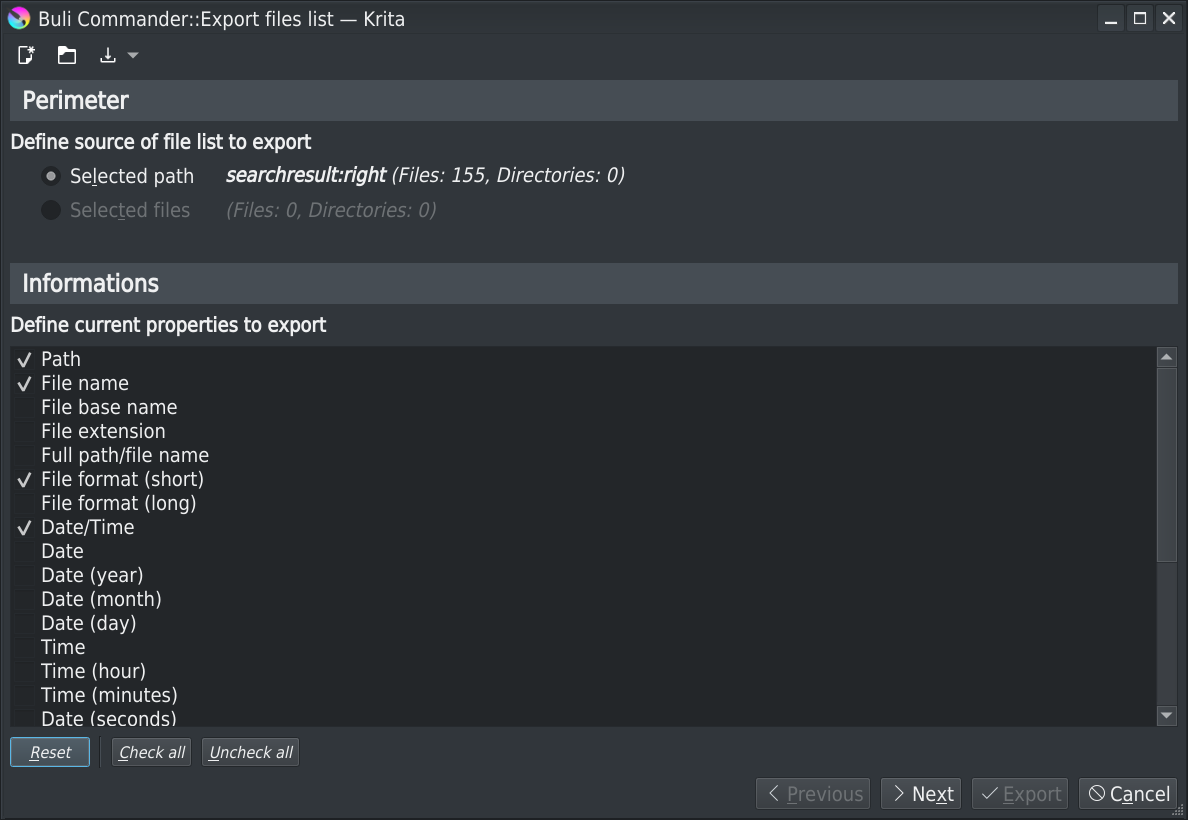
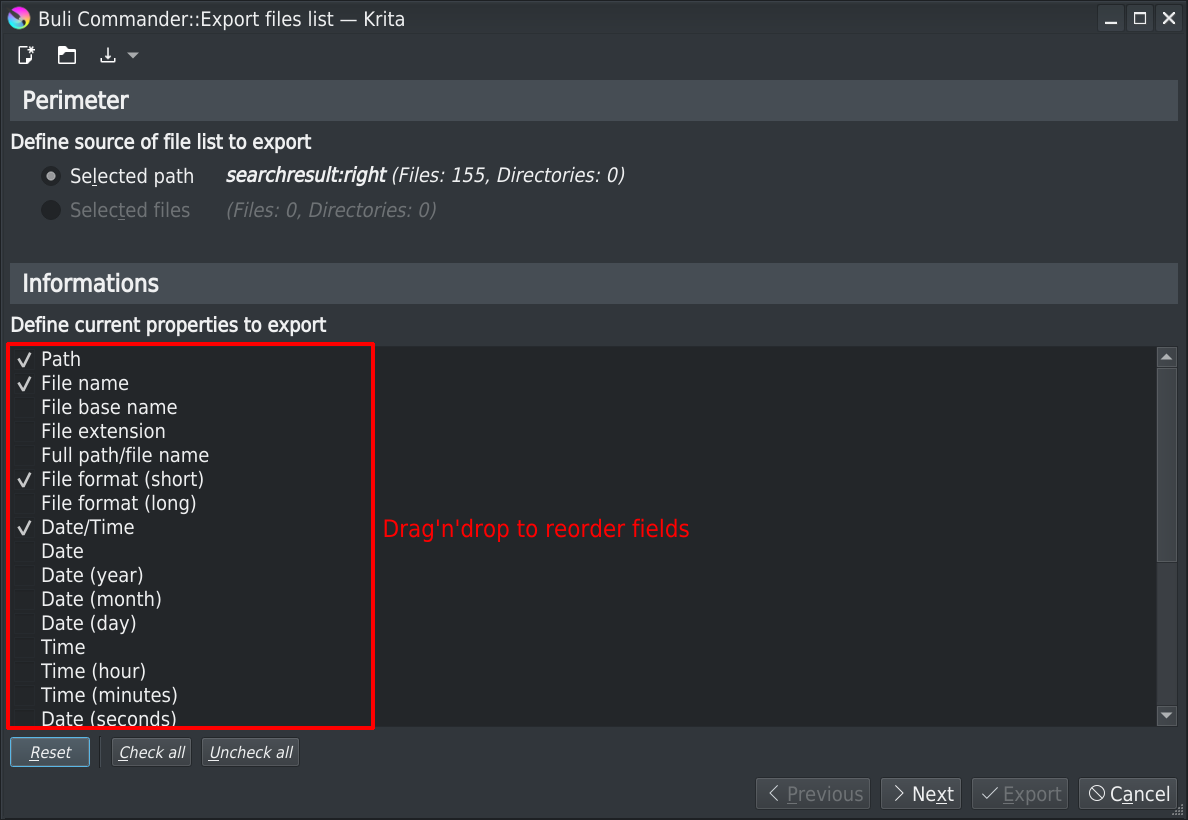
Improve BC - Release note
Big v0.7.0b release update 
Review screenshot, improve release note content & layout

Changed region(s): [[0.0, 0.3963, 0.3114, 0.9146], [0.3114, 0.4268, 0.5918, 0.8841]]

diff --git a/releases-notes/RELEASE-0.7.0b.md b/releases-notes/RELEASE-0.7.0b.md
@@ -2,164 +2,244 @@
 
 ## Beta release!
 Plugin is now stable enough to be considered in *beta* version instead of previous *alpha* state.
-
+There's still work before *v1.0.0*, but main functionalities are now available and can be used properly.
 
 ## Implement *Search*
-A search functionality has been implemented and let user to search for files/images with specific characteristics.
+The biggest implemented functionality for this version!
+A search engine has been implemented and let user to search for files/images with specific characteristics.
 
 ### Basic search
 The basic search interface can be used for most common searches:
-- Source path with miscellaneous options
-- File properties (name, path, size, date/time)
-- Image properties (width, height, aspect ratio, ...)
+- Search from a source path
+- Search for file properties
+- Search for image properties
 
-![Basic search](https://github.com/Grum999/BuliCommander/raw/master/screenshots/r0-7-0b_search_basic.jpeg)
+![Basic search](./..//screenshots/r0-7-0b_search_basic.jpeg)
 
-Result is displayed in current file panel.
+*Search results from **Basic search** are displayed in current file panel, allowing to do all possible action on files like in any directory or view*
 
 ### Advanced search
-The advanced search interface use a node system to allow to build very complex searches.
-- Multiple source path
-- Combination of files & images properties filtering
-- Multiple output possibilities with sort
+The advanced search interface use a node system and allows to build from simple to complex searches:
+- Search from multiple source paths
+- Search from combination of files & images properties
+- Multiple output format with sort options
 
-![Advanced search](https://github.com/Grum999/BuliCommander/raw/master/screenshots/r0-7-0b_search_advanced.jpeg)
+![Advanced search](./../screenshots/r0-7-0b_search_advanced.jpeg)
 
-
-Results from advanced search interface can be plugged with *Export files list* tools to generate different report type:
-- text files
-- pdf document
-- krita document
-- png/jpeg sequences
+*Search results from **Advanced search** interface can be returned in file panel, but also can be plugged with **Export files list** tools to generate different report type:*
+- Text documents (text, markdown, csv)
+- PDF documents
+- Krita documents
+- PNG/JPEG sequences documents
 
 ### Console
-When search is executed, it could take more or less time, according to number of files to analyse and search complexity.
+When search is executed, it could take more or less time, according to number of files to analyse, search complexity, output results.
 
-Search progress is displayed in a console:
-![Search console](https://github.com/Grum999/BuliCommander/raw/master/screenshots/r0-7-0b_search_console.jpeg)
-
-A search in progress can be cancelled.
+Search progress is visible in a console, and can be cancelled:
+![Search console](./../screenshots/r0-7-0b_search_console.jpeg)
 
 ### Save & Load search definition
-For user doing frequent identical searches, search definition can be saved and loaded.
+For user doing frequent identical searches, search definition can be saved and loaded (from **Basic search** and **Advanced search**)
+![Search load and save](./../screenshots/r0-7-0b_search_loadsave.jpeg)
 
+- **Basic search** definitions files are saved with `.bcbs` extension
+- **Advanced search** definitions files are saved with `.bcas` extension
 
 ## File panels
 
-### New fields
-New fields have been added to file panel, and it's not possible to select which one are visible:
-![Search console](https://github.com/Grum999/BuliCommander/raw/master/screenshots/r0-7-0b_filespanel_fields.jpeg)
+### New columns fields
+New columns fields have been added to file panel
+![File panel fields](./../screenshots/r0-7-0b_filespanel_fields.jpeg)
+
+- Right click on column name to get context menu and select which columns are visible or not
+- Drag'n'drop column name to reorder them
+
+Columns settings is distinct for *left* and *right* file panels
+
 
 ### Grid view
 A grid view mode has been added:
-![Search console](https://github.com/Grum999/BuliCommander/raw/master/screenshots/r0-7-0b_filespanel_gridview.jpeg)
+![File panel grid view mode](./../screenshots/r0-7-0b_filespanel_gridview.jpeg)
+
+List/Grid mode is selected from menu *View > layout* or from bottom/right button menu
+![File panel layout menu](./../screenshots/r0-7-0b_filespanel_layout.jpeg)
+
+Like for list mode, icon size of grid mode can be change with <kbd>CTRL</kbd>+<kbd>Mouse wheel</kbd> or from slider available in menu.
 
 ### Selections
-Selected items are kept in panel when content is updated (files added, deleted, updated; even if not managed by Buli Commander)
-- Do not reload content, but do update
-- Improve sort refresh to avoid flickering effects
+Selection management has been improved.
+
+Selected items are kept in panel when content is updated (files added, deleted, updated; even if not managed through Buli Commander)
+- Do not reload content, just update changed files
+- Improve sort refresh to avoid to lost current selection
 
 
 ## Improve *Export files list*
 
 ### Save & Load export definition
 It's now possible to save and load export definition; no need to reconfigure them each time :-)
+![Export file list load and save](./../screenshots/r0-7-0b_exportlist_loadsave.jpeg)
+
+- **Export files list** definitions files are saved with `.bcefl` extension
+
 
 ### Available fields & order
-Some new fields are available for export.
-Fields can be re-ordered by drag-n-drop.
+New fields are available for export:
+- Image ratio (decimal value)
+- Image ratio ("portrait", "landscape", "square")
+- Image pixels
+- Image pixels (in Megapixels)
 
-![Export file list](https://github.com/Grum999/BuliCommander/raw/master/screenshots/r0-7-0b_search_console.jpeg)
-
+Fields can now be re-ordered by drag-n-drop
+![Export file list fields](./../screenshots/r0-7-0b_exportlist_001.png)
 
 
 ## Improve image information
 
+### Krita files - *All*
+Add Krita version from which document has been created/edited
+
+![Image information Krita file version](./../screenshots/r0-7-0b_infopanel-imgnfo_kraversion.jpeg)
+
+
 ### Krita files - *Animated images*
-Review method to determinate if Krita file is animated.
-Also improve provided informations about animation:
+Review method to determinate if Krita file is animated (bug fix)
+
+Provided informations about Krita animation files are completed with:
 - Frame rate
 - Rendered frames (start, end, number of frames, duration)
 - Last frame (number, duration)
-- Total keyframes (find through all layers)
+- Total number of keyframes (find through <u>all animated layers</u>)
 
-![Animated image information](https://github.com/Grum999/BuliCommander/raw/master/screenshots/r0-7-0b_infopanel-image_animatedkra.jpeg)
-
-### Krita files - *All*
-Add Krita version from which document has been created/edited
+![Animated image information](./../screenshots/r0-7-0b_infopanel-imgnfo_kraanimated.jpeg)
 
 
 ### All files
 Add new properties:
-- Resolution
+- Image resolution
 - Image dimension in unit (mm, cm, in) if resolution is available
-- Image ratio
-- Image number of pixels
+- Image ratio (decimal value + text value)
+- Image number of pixels (in pixels + Megapixels)
 
-![Information panel](https://github.com/Grum999/BuliCommander/raw/master/screenshots/r0-7-0b_infopanel-imgnfo.jpeg)
+![Image information file properties](./../screenshots/r0-7-0b_infopanel-imgnfo_prop.jpeg)
 
-Also improve preview for images with transparency (checkerboard not impacted anymore by pan&zoom actions)
+
+Preview for images with transparency has been improved: checkerboard is now not impacted anymore by pan & zoom actions
 
 
 ## Improve performances
-- Review how metadata & thumbnail cache are built and stored to improve performances
-- Improved asynchronous thumbnail loading
+- Review how metadata & thumbnail cache are built and stored
+  - Thumbnail for images with alpha channel are generated as PNG
+  - Thumbnail for images without alpha channel are generated as JPEG (faster & smaller)
+  - Images metadata are stored in a SQLite database file
+- Asynchronous thumbnail loading has been improved
+- Image list/grid now use a Model/View to improve performances
 
 
-## Recognized files format
-The following files format are now taken in account:
+## New recognized files format
+The following files format are now taken in account by Buli Commander:
 - KRZ
 - BMP
 
 
-## Open as reference image
-Improve the functionality and let any image format recognized by Buli Commander (BMP, KRA, PSD, ...) to be opened as reference image
+## *Open as* functions
+
+### Improve *Open as reference image*
+Not sure why, but currently it's seems not possible anymore in Krita 5 to paste a JPEG image as a reference image.
+
+The *Open as reference image* function fix this problem and also allows to use any image format recognized by Buli Commander (BMP, GIF, KRA, PSD, ...) to be opened as *(an embedded)* reference image.
 
 
-## Open as Layer
-Add menu entry "Open as Layer"
-All selected files are opened as new layers:
-- SVG files are opened in Vector Layer
-- Raster files are opened in Paint Layer
+### Implement *Open as Layer*
+Add a menu entry *Open as Layer*
 
-## Open as File Layer
-Add menu entry "Open as File Layer"
+All selected files can be opened as new layers in active document:
+- SVG files are opened in *Vector Layer*
+- Raster files are opened in *Paint Layer*
+
+### Implement *Open as File Layer*
+Add a menu entry *Open as File Layer*
+
 All selected files are opened as new file layers
 
 
 ## Improve UI
-User interface has been slightly improved:
-- Create directory dialog box
-- Delete file/directory dialog box
-  *+Warning displayed if at least one directory is not empty*
-- Copy/Move file/directory dialog box
-- Review most of dialog boxes (messages, confirmation, ...)
-- Improve clipboard panel for url for which download failed (display and error status + error message)
-- Review console for conversion files dialog box
-- Sliders for thumbnail size now display current selected size
-- An option allows to move **Buli Commander** menu entry from *Tools > Scripts* to *File*
-- Add possibility from Krita settings (*Settings > Configure Krita... > Keyboard Shortcut >> Scripts*) to define a shortcut to open Buli Commander
-- Add "Open as reference image" in context menu
-- Reorganise "Open file" menu items
-  -- "Open file" as main menu entry
-  -- All other in "Open As" sub-menu entry
-  -- Remove all variation "...and close Buli Commander"
+Miscellaneous improvements in user interface has been made
+
+### Start Buli Commander with shortcut
+From Krita settings (*Settings > Configure Krita... > Keyboard Shortcut >> Scripts*) it's now possible to define a shortcut to start Buli Commander
+![Shortcut](./../screenshots/r0-7-0b_ui_shortcut.jpeg)
 
 
-## Fix bug - *Read Krita files*
-- Some animated files weren't considered as animated by Buli Commander
-- Some files with reference images (linked instead of embedded) weren't properly read
+### Reorganize *Open...* menu entries
+All *Open as* menu entries have been moved in a dedicated sub-menu *Open as* and all *...and close Buli Commander* variations have been removed.
+
+Context menu has been updated too.
+
+The *File* menu is more clear and easier to read.
+
+![Menu File - open](./../screenshots/r0-7-0b_ui_menufile.jpeg)
+
+### Buli Commander in *File* menu
+
+An option allows to move **Buli Commander** menu entry from usual *Tools > Scripts* menu to *File* menu
+
+In Buli Commander *Settings > Preferences... >> General*
+![Menu File BC - settings](./../screenshots/r0-7-0b_ui_menufile-bc01.jpeg)
+
+When active, Buli Commander menu entry is available in *File* menu between *Open recent* and *Save*
+![Menu File BC](./../screenshots/r0-7-0b_ui_menufile-bc02.jpeg)
 
 
-## Fix bug - *Specific to Windows*
-- Monospace font is now properly applied in interface
-- Copy/Move was not working due to unescaped separator `\` in paths
-- Export files tool is now working on Windows
-- A "Copy file" action from windows explorer now properly load files (if image files) into clipboard
+### Dialog windows
+Most of dialog windows have been redesigned
+
+Create directory dialog window
+![Create directory dialog box](./../screenshots/r0-7-0b_ui_dbox-createdir.jpeg)
+
+Delete file/directory dialog window
+![Delete files/directory dialog box](./../screenshots/r0-7-0b_ui_dbox-delete.jpeg)
+*A warning is displayed if at least one directory is not empty*
+
+Copy/Move and also all basic messages & confirmation dialog windows are redesigned
 
 
-## Fix bug - *Miscellaneous*
-- Fix compatibility with Krita 5
+### Improve error message for clipboard
+Improve clipboard panel error message when download failed for an url
+![Clipboard url download error](./../screenshots/r0-7-0b_ui_clipboard-dlderror.jpeg)
+*Display and error status + error message*
+
+### Thumbnails size
+Sliders for thumbnails size now display current selected size in pixels
+
+
+### Import animated files
+Import of animated files can take time.
+
+When an animated file (GIF, WebP) is opened, now a progress window allows to check import progress and eventually cancel it
+![Import animated files](./../screenshots/r0-7-0b_ui_importanimated.jpeg)
+
+
+
+## Fix bugs
+Some bugs have been fixed
+
+### Read Krita files
+- Some animated Krita files weren't recognized as animated files
+- Some files with reference images (*linked* instead of *embedded*) weren't properly read
+
+These problems are now fixed
+
+### Specific to *Windows* users
+- Monospace font was not properly applied in interface
+- Copy/Move files was not working properly due to unescaped separator `\` in paths
+- Export files tool was not working on *Windows*
+- A "Copy file" action from windows explorer now properly load files into clipboard (if files are image files)
+
+These problems are now fixed
+
+### Miscellaneous
+- Plugin was not compatible with Krita 5
 - After cache was cleared, it was not possible anymore to regenerate it
 - Files for which extension was not lowercase were not recognized as valid files and not visible in panel list
 - If zoom level was changed during thumbnail loading, progress bar was not hidden when load process was finished
@@ -169,12 +249,10 @@ User interface has been slightly improved:
 - When theme was changed in Krita, a python script message error about 'autoreload' was displayed
 - When from one panel (located in directory A) a directory B was deleted, if opposite panel was located to deleted directory (or subdirectory of deleted directory), panel refresh was not properly made and mouse cursor was stuck on "wait"
 - When Buli Commander is defined to be automatically opened at startup, if user had time to open a document before start/end of plugin initialization, a script error was raised
-- Add progress bar and possibility to cancel operation during animated files import (like Gif or WebP)
 - Fix miscellaneous minor bugs
 
 
 
 ## Technical improvements - *Use & enhance common plugin library PkTk*
-Use of PkTk library, that provides common modules, classes & widget.
-And also most classes that can be re-used for other plugins have been moved to PkTk library.
-*Note: PkTk library is not yet available in its own repository, need to wait for that*
+Use of PkTk library, that provides common modules, classes & widgets used by Buli Commander and that can also be re-used for other plugins have been moved to PkTk library.
+*Note: PkTk library is not yet available in its own repository, need to wait for that because still WIP and no documentation yet...*
